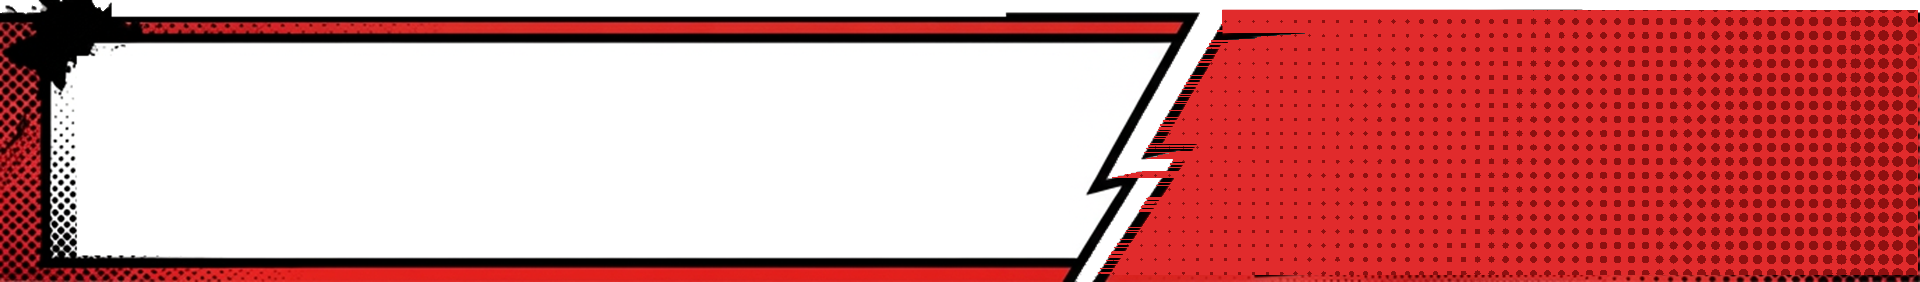
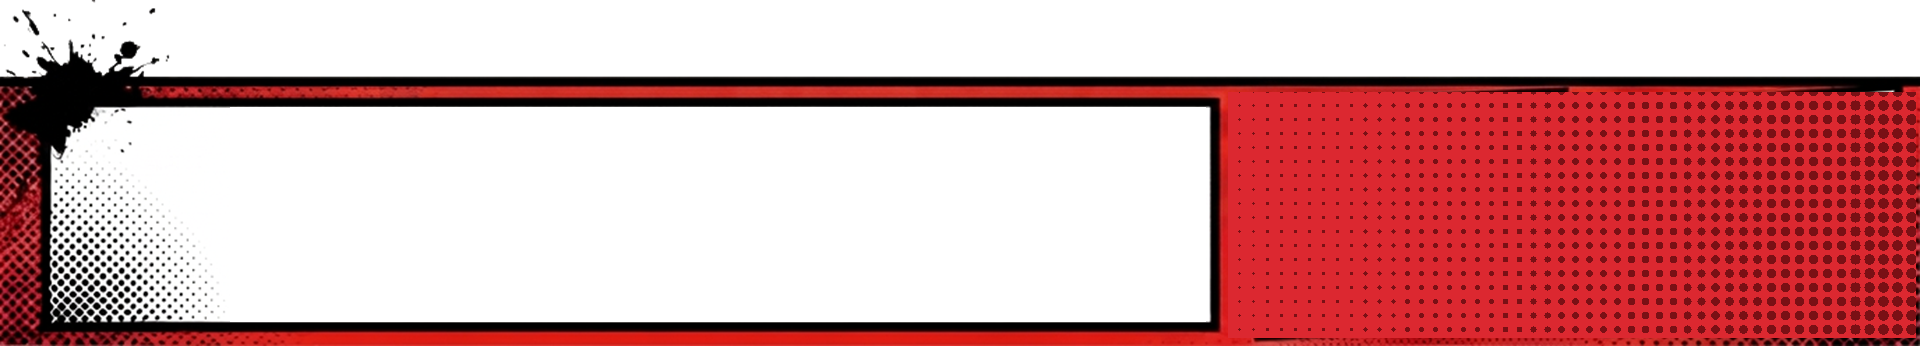
Combate igual que la maqueta: barra con los cuatro botones e iconos, fichas nuevas, bolitas y flecha del rival, vida del rival en bloques, Lv.; tu Pokémon ya no queda tapado por la barra

diff --git a/Pokémon Ostinato/Plugins/Ostinato/016_CombateHD.rb b/Pokémon Ostinato/Plugins/Ostinato/016_CombateHD.rb
@@ -27,10 +27,11 @@ module OstCombate
   BASE_ESCALA = 3            # las bases de los fondos antiguos de 512
   ANCHO  = 1920
   ALTO   = 1080
-  BARRA_Y = ALTO - 282       # donde empiezan las barras de abajo
+  BARRA_Y = ALTO - 282       # donde empieza la barra de ataques
+  BARRA2_Y = ALTO - 346      # la barra de mensaje y botones (con sus manchas por arriba)
 
   # centro de los pies de cada lado (como las bases de la v21)
-  PROPIO = [554, 770]
+  PROPIO = [554, 700]
   RIVAL  = [1374, 450]
 
   @activo = false
@@ -237,12 +238,12 @@ class Battle::Scene
     if box
       box.bitmap = OstCombate.bmp("barra_mensaje")
       box.x = 0
-      box.y = OstCombate::BARRA_Y
+      box.y = OstCombate::BARRA2_Y
     end
     w = @sprites["messageWindow"]
     if w
       w.x = 92
-      w.y = OstCombate::BARRA_Y + 66
+      w.y = OstCombate::BARRA2_Y + 128
       w.width = 1030
       w.height = 200
       w.baseColor = Color.new(20, 20, 20)
@@ -351,13 +352,18 @@ end
 #-------------------------------------------------------------------------------
 class Battle::Scene::PokemonDataBox
   # [x, y] de la ficha y, dentro, todo lo demas
-  OST_RIVAL = { :pos => [56, 6], :fondo => "ficha_rival",
-                :nombre => [95, 86, 430, 74], :nivel => [500, 96, 190, 64],
-                :vida => [349, 178, 327, 25], :estado => [120, 172] }
-  OST_PROPIA = { :pos => [1083, 491], :fondo => "ficha_propia",
-                 :nombre => [155, 46, 430, 74], :nivel => [520, 54, 195, 64],
-                 :vida => [426, 133, 316, 30], :numeros => [440, 166, 280, 64],
-                 :exp => [299, 244, 418, 9], :estado => [200, 126] }
+  # (medido sobre las piezas de Descargas\interfaz_combate\piezas2, colocadas
+  # como en estilo_elegido.png)
+  OST_RIVAL = { :pos => [79, 13], :fondo => "ficha_rival",
+                :nombre => [48, 64, 380, 80], :nivel => [462, 80, 210, 72],
+                :nivel_texto => "Lv.%d", :nivel_alin => 1,
+                :vida => [322, 200, 312, 34], :bloques => 8, :estado => [70, 150],
+                :bolitas => [137, 280, 58], :flecha => [61, 340] }
+  OST_PROPIA = { :pos => [1112, 474], :fondo => "ficha_propia",
+                 :nombre => [100, 34, 380, 76], :nivel => [604, 50, 130, 64],
+                 :nivel_texto => "%d", :nivel_alin => 0,
+                 :vida => [382, 140, 298, 26], :numeros => [400, 178, 280, 66],
+                 :exp => [258, 272, 394, 11], :estado => [110, 200] }
   OST_COLORES = [Color.new(70, 200, 80), Color.new(250, 200, 40),
                  Color.new(250, 130, 30), Color.new(230, 40, 40)]
 
@@ -411,6 +417,12 @@ class Battle::Scene::PokemonDataBox
     @ostExp.fill_rect(0, 0, e[2], e[3], Color.new(60, 170, 240))
     @expBar.bitmap = @ostExp
     @sprites["expBar"] = @expBar
+    # el rival: las bolitas de su equipo y la flecha, debajo de la ficha
+    if d[:bolitas]
+      @ostLinea = Sprite.new(viewport)
+      @ostLinea.bitmap = Bitmap.new(720, 420)
+      @sprites["ostLinea"] = @ostLinea
+    end
     @contents = Bitmap.new(@databoxBitmap.width, @databoxBitmap.height)
     self.bitmap  = @contents
     self.visible = false
@@ -421,6 +433,7 @@ class Battle::Scene::PokemonDataBox
   alias ostcomb_dispose dispose
   def dispose
     @ostExp&.dispose
+    @ostLinea.bitmap.dispose if @ostLinea && !@ostLinea.disposed? && @ostLinea.bitmap
     ostcomb_dispose
   end
 
@@ -433,6 +446,7 @@ class Battle::Scene::PokemonDataBox
     @expBar.x = value + (d[:exp] ? d[:exp][0] : 0)
     @hpNumbers.x = value + (d[:numeros] ? d[:numeros][0] : 0)
     @hpPercent.x = value
+    @ostLinea.x = value if @ostLinea
   end
 
   alias ostcomb_y_set y=
@@ -444,6 +458,7 @@ class Battle::Scene::PokemonDataBox
     @expBar.y = value + (d[:exp] ? d[:exp][1] : 0)
     @hpNumbers.y = value + (d[:numeros] ? d[:numeros][1] : 0)
     @hpPercent.y = value
+    @ostLinea.y = value if @ostLinea
   end
 
   alias ostcomb_refresh refresh
@@ -462,8 +477,10 @@ class Battle::Scene::PokemonDataBox
                      Color.new(255, 255, 255), Color.new(0, 0, 0), 3)
     # nivel: negro sobre el blanco
     l = d[:nivel]
-    OstCombate.fuente(b, 54)
-    OstCombate.texto(b, l[0], l[1], l[2], l[3], "Nv.#{@battler.level}", 2, Color.new(20, 20, 20))
+    OstCombate.fuente(b, 66)
+    OstCombate.texto(b, l[0], l[1], l[2], l[3], format(d[:nivel_texto], @battler.level), d[:nivel_alin],
+                     Color.new(20, 20, 20))
+    ost_bolitas
     # estado (el icono de la v21, ampliado)
     if @battler.status != :NONE
       begin
@@ -495,7 +512,7 @@ class Battle::Scene::PokemonDataBox
     if @show_hp_numbers && d[:numeros]
       OstCombate.fuente(@hpNumbers.bitmap, 52)
       OstCombate.texto(@hpNumbers.bitmap, 0, 0, d[:numeros][2], d[:numeros][3],
-                       "#{self.hp.round}/#{@battler.totalhp}", 2, Color.new(20, 20, 20))
+                       "#{self.hp.round}/ #{@battler.totalhp}", 2, Color.new(255, 255, 255), Color.new(0, 0, 0), 3)
     end
     v = d[:vida]
     w = 0
@@ -506,9 +523,58 @@ class Battle::Scene::PokemonDataBox
     idx, _sig, _mezcla = pbHPBarZoneInfo(self.hp, @battler.totalhp, HP_COLOR_COUNT)
     col = OST_COLORES[[idx, 3].min]
     @hpBarDisplay.clear
-    @hpBarDisplay.fill_rect(0, 0, v[2], v[3], col)
-    @hpBarDisplay.fill_rect(0, 0, v[2], [v[3] / 4, 2].max, Color.new([col.red + 50, 255].min, [col.green + 50, 255].min, [col.blue + 50, 255].min))
-    @hpBar.src_rect.width = w
+    claro = Color.new([col.red + 50, 255].min, [col.green + 50, 255].min, [col.blue + 50, 255].min)
+    if d[:bloques]
+      # el rival: la vida en bloques, como en la maqueta; los vacios, grises
+      n = d[:bloques]
+      hueco = 6
+      bw = (v[2] - hueco * (n - 1)) / n
+      llenos = (self.hp <= 0) ? 0 : [(n * self.hp.to_f / @battler.totalhp).ceil, 1].max
+      n.times do |k|
+        x = k * (bw + hueco)
+        c = (k < llenos) ? col : Color.new(70, 70, 70)
+        @hpBarDisplay.fill_rect(x, 0, bw, v[3], c)
+        @hpBarDisplay.fill_rect(x, 0, bw, [v[3] / 4, 2].max, claro) if k < llenos
+      end
+      @hpBar.src_rect.width = v[2]
+    else
+      @hpBarDisplay.fill_rect(0, 0, v[2], v[3], col)
+      @hpBarDisplay.fill_rect(0, 0, v[2], [v[3] / 4, 2].max, claro)
+      @hpBar.src_rect.width = w
+    end
+  end
+
+  alias ostcomb_databox_z_set z=
+  def z=(value)
+    ostcomb_databox_z_set(value)
+    @ostLinea.z = 40 if @ostLinea && !@ostLinea.disposed?   # por detras de los Pokemon
+  end
+
+  def ost_bolitas
+    return if !@ostLinea || @ostLinea.disposed?
+    @ostLinea.z = 40
+    d = ost_datos
+    b = @ostLinea.bitmap
+    b.clear
+    f = OstCombate.bmp("flecha")
+    b.blt(d[:flecha][0], d[:flecha][1], f, f.rect)
+    equipo = []
+    begin
+      equipo = @battler.battle.pbParty(@battler.index)
+    rescue
+    end
+    bx, by, paso = d[:bolitas]
+    lado = 50
+    6.times do |i|
+      pk = equipo[i]
+      if pk && !pk.egg?
+        bm = OstCombate.bmp(pk.fainted? ? "bolita_gris" : "bolita")
+        b.stretch_blt(Rect.new(bx + i * paso, by, lado, lado), bm, bm.rect)
+      else
+        bm = OstCombate.bmp("bolita_gris")
+        b.stretch_blt(Rect.new(bx + i * paso, by, lado, lado), bm, bm.rect, 90)
+      end
+    end
   end
 
   alias ostcomb_refresh_exp refresh_exp
@@ -523,7 +589,8 @@ end
 # Los cuatro botones (Luchar, Mochila, Pokemon, Huir)
 #-------------------------------------------------------------------------------
 class Battle::Scene::CommandMenu
-  OST_BOTONES = [[1400, 882], [1741, 880], [1401, 1007], [1741, 1009]]
+  OST_BOTONES = [[1402, 879], [1738, 882], [1400, 1006], [1741, 1010]]
+  OST_ICONOS  = ["icono_luchar", "icono_mochila", "icono_pokemon", "icono_huir"]
 
   alias ostcomb_initialize initialize
   def initialize(viewport, z)
@@ -531,19 +598,19 @@ class Battle::Scene::CommandMenu
     return ostcomb_initialize(viewport, z) if !@ost
     Battle::Scene::MenuBase.instance_method(:initialize).bind(self).call(viewport)
     self.x = 0
-    self.y = OstCombate::BARRA_Y
+    self.y = OstCombate::BARRA2_Y
     @textos = []
     fondo = Sprite.new(viewport)
-    fondo.bitmap = OstCombate.bmp("barra_comandos")
-    fondo.y = OstCombate::BARRA_Y
+    fondo.bitmap = OstCombate.bmp("barra")
+    fondo.y = OstCombate::BARRA2_Y
     addSprite("fondo", fondo)
     @ostSel = Sprite.new(viewport)
     @ostSel.bitmap = OstCombate.bmp("boton_sel")
     @ostSel.ox = @ostSel.bitmap.width / 2
     @ostSel.oy = @ostSel.bitmap.height / 2
     addSprite("sel", @ostSel)
-    @ostTexto = BitmapSprite.new(OstCombate::ANCHO, 282, viewport)
-    @ostTexto.y = OstCombate::BARRA_Y
+    @ostTexto = BitmapSprite.new(OstCombate::ANCHO, 346, viewport)
+    @ostTexto.y = OstCombate::BARRA2_Y
     addSprite("texto", @ostTexto)
     # zonas para el raton (invisibles)
     @ostZona = Bitmap.new(320, 110)
@@ -585,26 +652,30 @@ class Battle::Scene::CommandMenu
   def refresh
     return ostcomb_refresh if !@ost
     p = OST_BOTONES[@index] || OST_BOTONES[0]
-    @ostSel.x = p[0] + 2
-    @ostSel.y = p[1] - 4
+    @ostSel.x = p[0]
+    @ostSel.y = p[1]
     b = @ostTexto.bitmap
     b.clear
     # la pregunta, en el panel blanco
     if @textos[0]
       OstCombate.fuente(b, 56)
       OstCombate.lineas(b, @textos[0].to_s.gsub("\n", " "), 980).each_with_index do |linea, i|
-        OstCombate.texto(b, 100, 62 + i * 64, 1000, 64, linea, 0, Color.new(20, 20, 20))
+        OstCombate.texto(b, 92, 124 + i * 64, 1000, 64, linea, 0, Color.new(20, 20, 20))
       end
     end
-    OstCombate.fuente(b, 60)
+    # cada boton: su palabra y su icono, en negro (como en la maqueta)
+    OstCombate.fuente(b, 62)
     4.times do |i|
       t = @textos[i + 1]
       next if !t
       q = OST_BOTONES[i]
-      sel = (i == @index)
-      OstCombate.texto(b, q[0] - 150, q[1] - OstCombate::BARRA_Y - 34, 300, 68, t.to_s.upcase, 1,
-                       sel ? Color.new(255, 255, 255) : Color.new(20, 20, 20),
-                       sel ? Color.new(0, 0, 0) : nil, 3)
+      ty = q[1] - OstCombate::BARRA2_Y
+      txt = t.to_s.upcase
+      ic = OstCombate.bmp(OST_ICONOS[i])
+      ancho = b.text_size(txt).width + 14 + ic.width
+      x0 = q[0] - ancho / 2
+      OstCombate.texto(b, x0, ty - 36, ancho, 72, txt, 0, Color.new(15, 15, 15))
+      b.blt(x0 + ancho - ic.width, ty - ic.height / 2, ic, ic.rect)
     end
   end
 end
